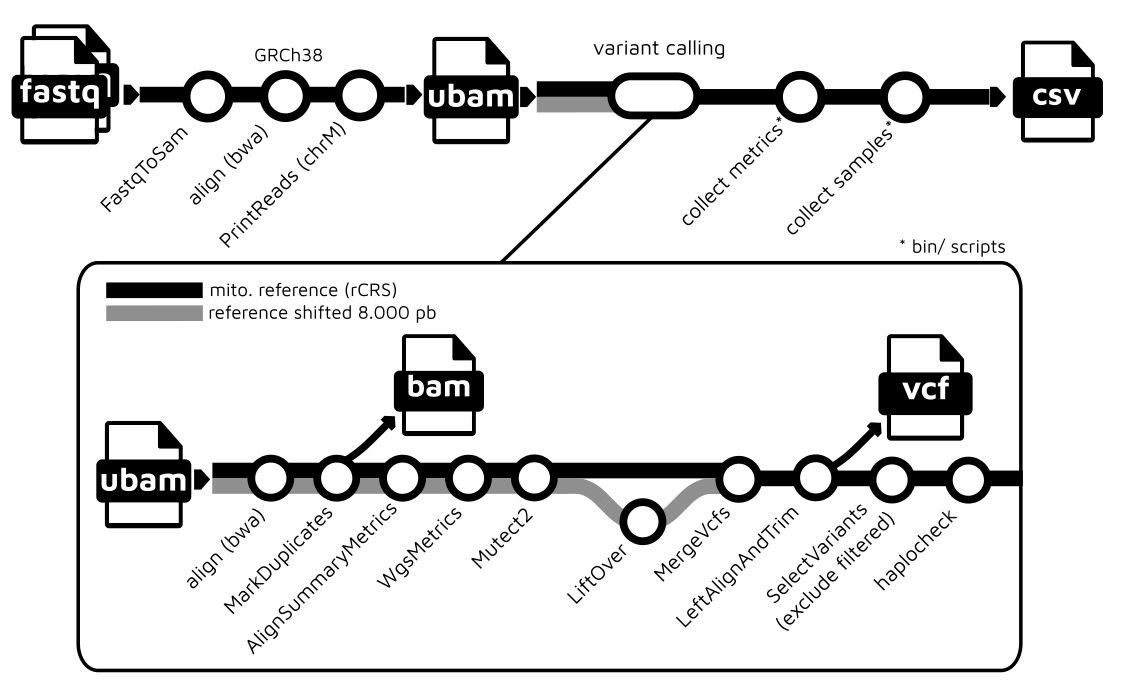
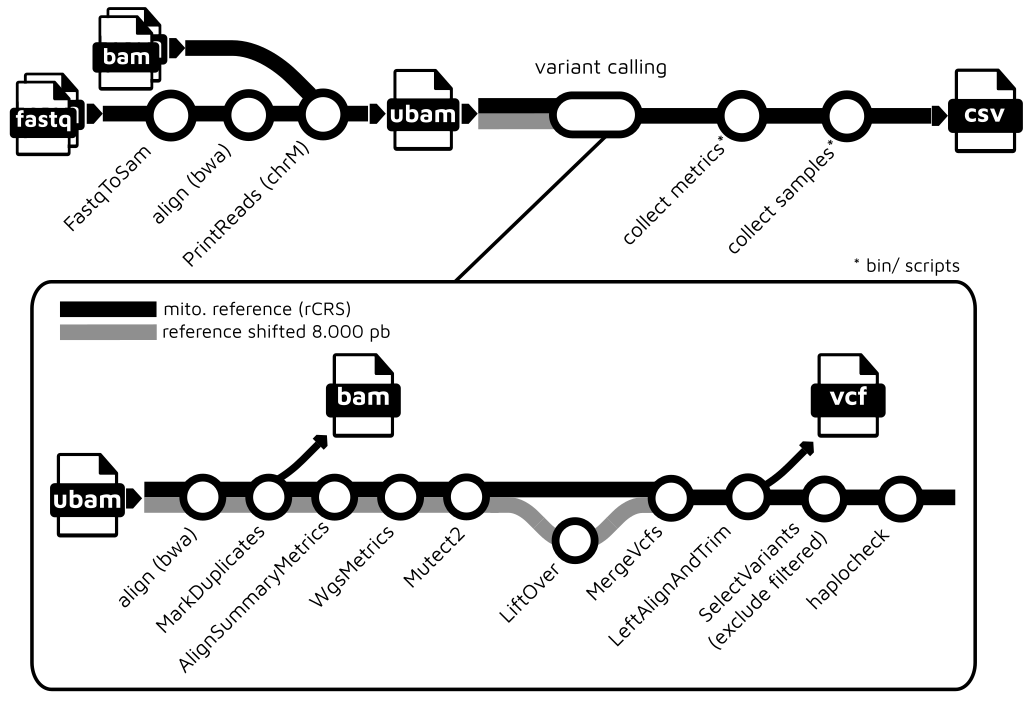
feat: accept alignment as input (#8)
* feat: also accept alignments as input

* docs: update docs

* tests: remove resume flag

* tests: include alignment in testing setup

* docs: update diagram

diff --git a/README.md b/README.md
@@ -16,9 +16,12 @@ The workflow can currently be run using either [Docker](https://www.docker.com/p
 
 ## Inputs
 
-- Pairs of FASTQ file. One pair for each sample.
+- Pairs of FASTQ file. One pair for each sample or
+- Alignment file, one per sample. Accepts BAM or CRAM formats.
 - Reference for human genome (GRCh38). [Files are available here](https://console.cloud.google.com/storage/browser/genomics-public-data/references/hg38/v0).
   - .fasta, .dict, .fai, .ann, .amb, .sa, .pac, .alt
+
+> Note: if you are using alignments then you need to use the same version of the mapped reference in the parameter _--reference_. This pipeline only supports versions of GRCh38/Hg38.
 
 ## Running
 
@@ -28,7 +31,8 @@ nextflow run lmtani/wf-human-mito -r main --help
 
 # Example:
 nextflow run lmtani/wf-human-mito -r main \
-    --fastq 'fastqs/*_R{1,2}.fq.gz' \
+    --fastq 'fastqs/*_R{1,2}.fq.gz' \ # ex: sample_R1.fq.gz and sample_R2.fq.gz
+    --alignments 'bams/*.cra{m,i}' \  # ex: sample.cram and sample.crai
     --reference /refs/Homo_sapiens_assembly38.fasta \
     --outdir outdir \
     -profile conda   # or docker
@@ -49,5 +53,3 @@ nextflow run lmtani/wf-human-mito -r main \
 ### TODOs
 
 - [ ] In `COLLECT_WGS_METRICS` process, the input value "readLen" should be dynamic. This info is inside COLLECT_ALIGNMENT_METRICS output.
-
-- [ ] Accept whole genome aligned BAM/CRAM as input
